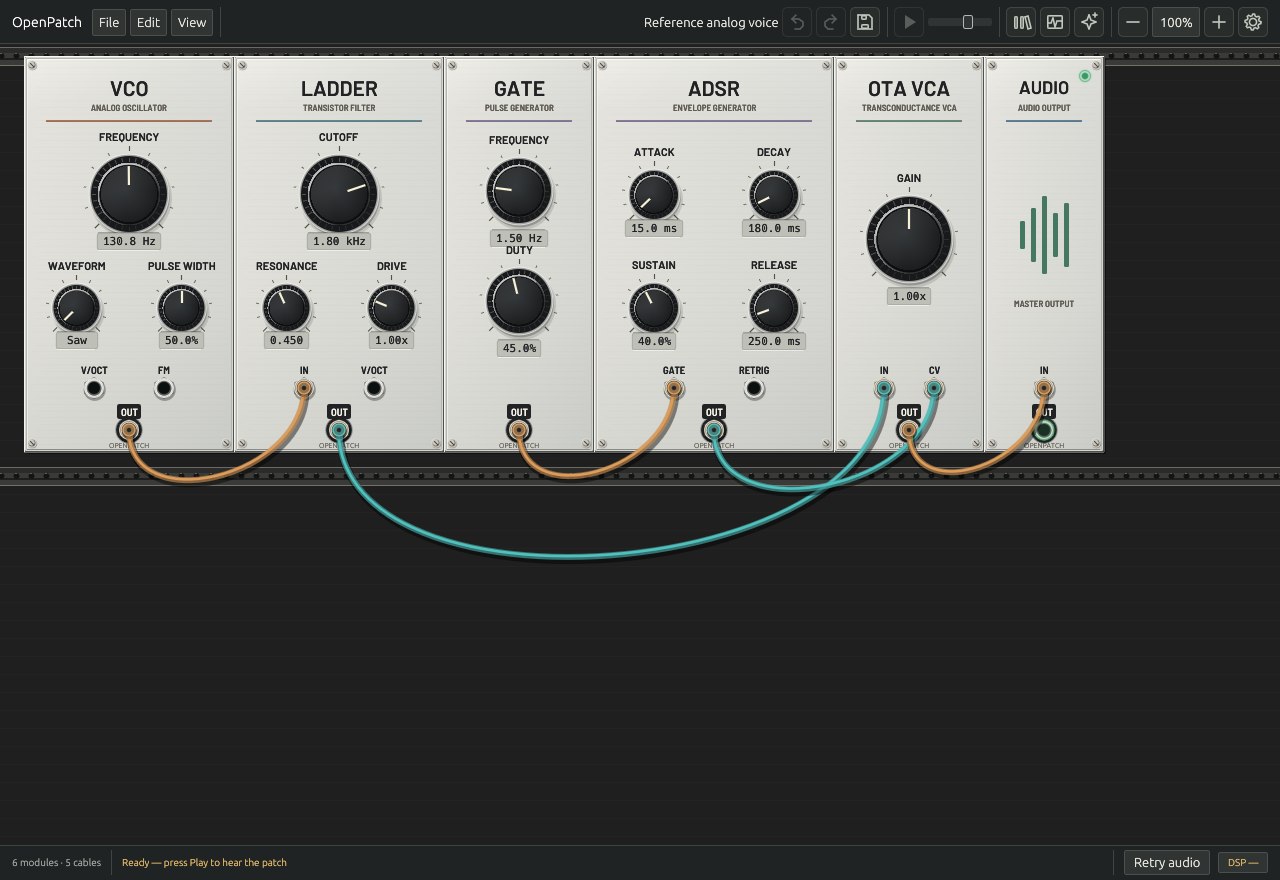
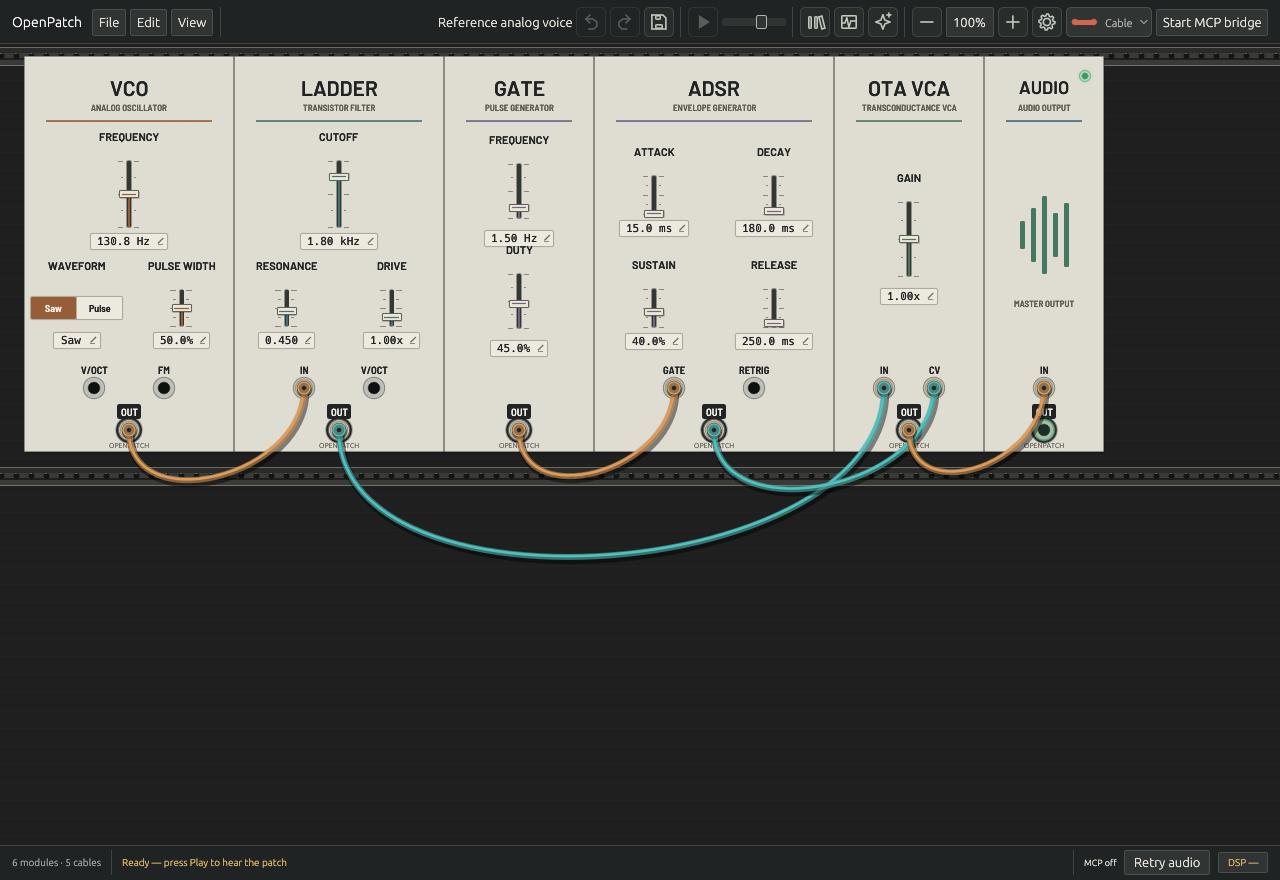
Refresh product screenshots and document verified integration gates

diff --git a/docs/MODULE_COVERAGE.md b/docs/MODULE_COVERAGE.md
@@ -67,9 +67,11 @@ bringing the current catalog to **64 kinds**. The reference OTA VCA and legacy
 passes 72 traces at 44.1/48/96 kHz: 55,872 frames, 800,328 active output/gain
 comparisons and maximum absolute error 9.54e-7 under the frozen
 `2e-6 + 2e-6 * abs(reference)` gate. Six DSP unit tests, five public Engine tests
-and one core allocation/deallocation guard pass. Desktop callback/panel
-validation, native captures, platform CI and native macOS input/audio
-qualification remain open; this is bounded DSP evidence, not full parity.
+and one core allocation/deallocation guard pass. Dedicated desktop callback and
+panel tests, reviewed Linux normal/dark captures, and macOS ARM/Windows/Linux CI
+also have [recorded bounded passes](STOCK_VCA.md#recorded-host-and-platform-validation).
+Native macOS/Windows window input, physical MIDI/audio I/O and complete Rack
+host/import parity remain open.
 
 The prior 45-kind baseline comprises: seven legacy utilities, six reference-voice
 kinds, five functional utilities, four version-2 polyphonic routing/source
@@ -191,7 +193,7 @@ All names below are from the [official Free manual index](https://vcvrack.com/Fr
 | VCO | Oscillator | Partial: `multi_vco` has four simultaneous outputs, polyphonic FM/PWM and hard/soft sync, original step reconstruction, and direct pinned-reference comparisons; separate reference ramp VCO retained | Reconstruction residual, high-frequency aliasing, voice-retirement compatibility and native qualification remain open; [contract](AUDIO_OSCILLATOR.md) |
 | Wavetable VCO | Oscillator | Planned | Validated file loading, interpolation, tuning and alias budget |
 | VCF | Filter | Separate `stock_vcf` digital model with LP/HP, signed cutoff/resonance/drive CV, source-style oversampling and noise; circuit ladder and legacy one-pole preserved | Pinned digital comparison and host lifecycle/consumer tests; native interaction/device, import and measured hardware qualification remain separate; [contract](STOCK_VCF.md) |
-| VCA | Amplifier | Separate `stock_vca` targets VCA-1 with level, linear/fourth-power CV, mono broadcast and measured per-channel gain telemetry; reference OTA VCA and legacy gain retained | [72-trace actual-class DSP report](benchmarks/stock-vca-reference.json) passes the frozen gate; local callback/panel tests pass; native captures and platform CI are release gates; native macOS/device qualification remains separate; [contract](STOCK_VCA.md). Hidden VCA-2 remains a separate target. |
+| VCA | Amplifier | Separate `stock_vca` targets VCA-1 with level, linear/fourth-power CV, mono broadcast and measured per-channel gain telemetry; reference OTA VCA and legacy gain retained | [72-trace actual-class DSP report](benchmarks/stock-vca-reference.json), callback/panel tests, reviewed Linux captures and platform CI have [bounded passes](STOCK_VCA.md#recorded-host-and-platform-validation); native macOS/Windows window input, physical I/O and complete Rack host/import parity remain open. Hidden VCA-2 remains a separate target. |
 | LFO | Modulation | Implemented documented signal role: `multi_lfo`, four waveforms, FM/PWM, clock/reset and voltage modes | Direct VCV waveform/clock comparison and full native configuration parity remain open; OpenPatch defaults to bipolar output, whereas Fundamental 2.6.4 defaults to unipolar |
 | Wavetable LFO | Modulation | Planned | Table traversal, reset and low-frequency timing |
 | Delay | Effect | Planned | Fractional delay, interpolation, feedback stability, modulation; allocate buffers off callback |

diff --git a/docs/STOCK_VCA.md b/docs/STOCK_VCA.md
@@ -1,11 +1,11 @@
 # Stock VCA
 
-Local qualification: the actual-source DSP oracle, six DSP unit tests, five
+Bounded qualification: the actual-source DSP oracle, six DSP unit tests, five
 public Engine tests, one core allocation guard and fifteen desktop tests pass.
-The desktop tests cover real gain publication, heap-free callbacks, shared
-thumbnails and repeated keyboard edits. Cross-platform CI and actual Linux
-captures are required release gates. Native macOS window/input/playback and
-audio-device qualification are separate outstanding work.
+Reviewed Linux captures and macOS ARM, Windows and Linux CI passes are recorded
+below. Native macOS/Windows window input and physical MIDI/audio-device
+qualification remain open, as do complete Rack host/import parity and analog
+hardware calibration.
 
 A separate `stock_vca` targets the VCV Free VCA-1 digital behavior, preserving
 `analog_vca` and legacy `gain`. This is ideal amplification and a specified CV
@@ -115,8 +115,29 @@ adapters, SDK padding, unused output metadata and recorded source/toolchain hash
 
 This is finite digital DSP coverage. It does not measure analog hardware or
 qualify native macOS controls, audio devices or playback. Public Engine, desktop
-callback, panel, native capture and cross-platform gates remain separately
-tracked; passing this oracle does not complete VCV module or host parity.
+callback, panel, native capture and cross-platform gates have their own evidence
+below; passing this oracle does not complete VCV module or host parity.
+
+## Recorded host and platform validation
+
+On 2026-10-15, [e50f342 CI](https://github.com/dexterlabs1/openpatch/actions/runs/38770399339)
+and [c903b211 CI](https://github.com/dexterlabs1/openpatch/actions/runs/38776627903)
+passed correctness/allocation tests, clippy, release builds and MCP checks on
+macOS ARM64, Windows x86-64 and Linux x86-64. Linux native window/GLSL smoke also
+passed; that step was skipped on macOS and Windows.
+
+The dedicated [callback tests](../crates/openpatch-desktop/src/stock_vca_audio_tests.rs)
+cover first-buffer and graph-crossfade heap activity, partition-independent audio
+and true gain publication with silent signals, and raw-width bypass with frozen
+gain telemetry. [Panel tests](../crates/openpatch-desktop/src/stock_vca_ui_tests.rs)
+cover actual input, precise entry, keyboard focus/history, shared rack/browser
+rendering and dark-room gain emission. The App example fixture also passes.
+Actual Linux normal/dark captures were reviewed: full gain can remain bright
+while silent signal plugs remain dark.
+
+These are bounded integration and platform-build passes. They do not establish
+native macOS/Windows window input, physical MIDI/audio I/O, analog calibration,
+complete Rack state/import compatibility or VCA-2 coverage.
 
 ## Measured callback cost
 

diff --git a/README.md b/README.md
@@ -45,11 +45,12 @@ For Apple Silicon, install stable [Rust](https://rustup.rs), Xcode Command Line 
 ```sh
 git clone https://github.com/dexterlabs1/openpatch.git
 cd openpatch
-cargo build --locked --release -p openpatch-desktop
+cargo build --locked --release -p openpatch-desktop -p openpatch --bins
 python3 scripts/package_macos.py
 open dist/OpenPatch.app
 ```
 
+The bundle includes the desktop app and the CLI used for MCP attachment.
 The app opens a connected reference voice with playback paused. Press **Play** or **Space** to hear it. To run directly from source, use `cargo run --locked --release -p openpatch-desktop`.
 
 This is a **v0.2 development preview**, built from source. The local `.app` is ad-hoc signed; it is not notarized. CI also builds Linux and Windows targets; platform notes are below.
@@ -394,9 +395,10 @@ and [session controls](docs/MCP_SESSIONS.md).
 The new Stock VCA's [pinned actual-class comparison](docs/benchmarks/stock-vca-reference.json)
 passes 72 traces at three sample rates: 55,872 frames and 800,328 active
 output/gain comparisons, with maximum absolute error 9.54e-7 under the frozen
-`2e-6 + 2e-6 * abs(reference)` gate. Host tests cover live gain publication,
-shared rack/browser rendering and edit history. Analog hardware, native macOS
-controls and audio devices require separate qualification.
+`2e-6 + 2e-6 * abs(reference)` gate. Its [integration validation record](docs/STOCK_VCA.md#recorded-host-and-platform-validation)
+includes passing callback/panel tests, reviewed Linux screenshots and macOS ARM,
+Windows and Linux CI. Native macOS/Windows window input, physical MIDI/audio I/O,
+and complete Rack host/import parity remain open.
 
 macOS ARM is the current product focus. CI builds and tests **macOS ARM64, Linux x86-64, and Windows x86-64**, including native window and shader checks on Linux. Audio devices and GPU drivers need broader hands-on testing.
 

diff --git a/docs/PANEL_DESIGN.md b/docs/PANEL_DESIGN.md
@@ -71,11 +71,13 @@ The shared-renderer regressions compare primitive geometry and drawing for all
 real rack instance IDs. Interaction tests cover full-width and narrow cards, preview input
 isolation and card click/drag behavior over specialized controls. Categorical
 segments use that same passive preview path and cannot edit the live patch.
-Native Linux CI captures provide visual acceptance of the shared paths. The
-linked library image documents an earlier capture; it is not evidence that the
-simplified screw-free panels and flat sockets have passed new visual checks.
-Those changes still need the normal CI capture review. macOS device playback is
-not part of these visual checks.
+On 2026-10-15, two reviews of actual captures from
+[c4fd1da Linux CI](https://github.com/dexterlabs1/openpatch/actions/runs/38778208214)
+found no new visual blocker in the screw-free panels and flat sockets. Reviewed
+scenes include the normal rack, dense studio panels, standard/compact library,
+natural-size Inspect and dark-room signal/gain emission. This records the Linux
+visual gate. Native macOS/Windows window input and physical audio/device qualification
+remain separate; these images do not establish full Rack visual or host parity.
 
 Panel print uses [Barlow SemiBold and Semi Condensed SemiBold](../crates/openpatch-desktop/assets/fonts/README.md),
 with its original SIL Open Font License bundled in the Mac application.
